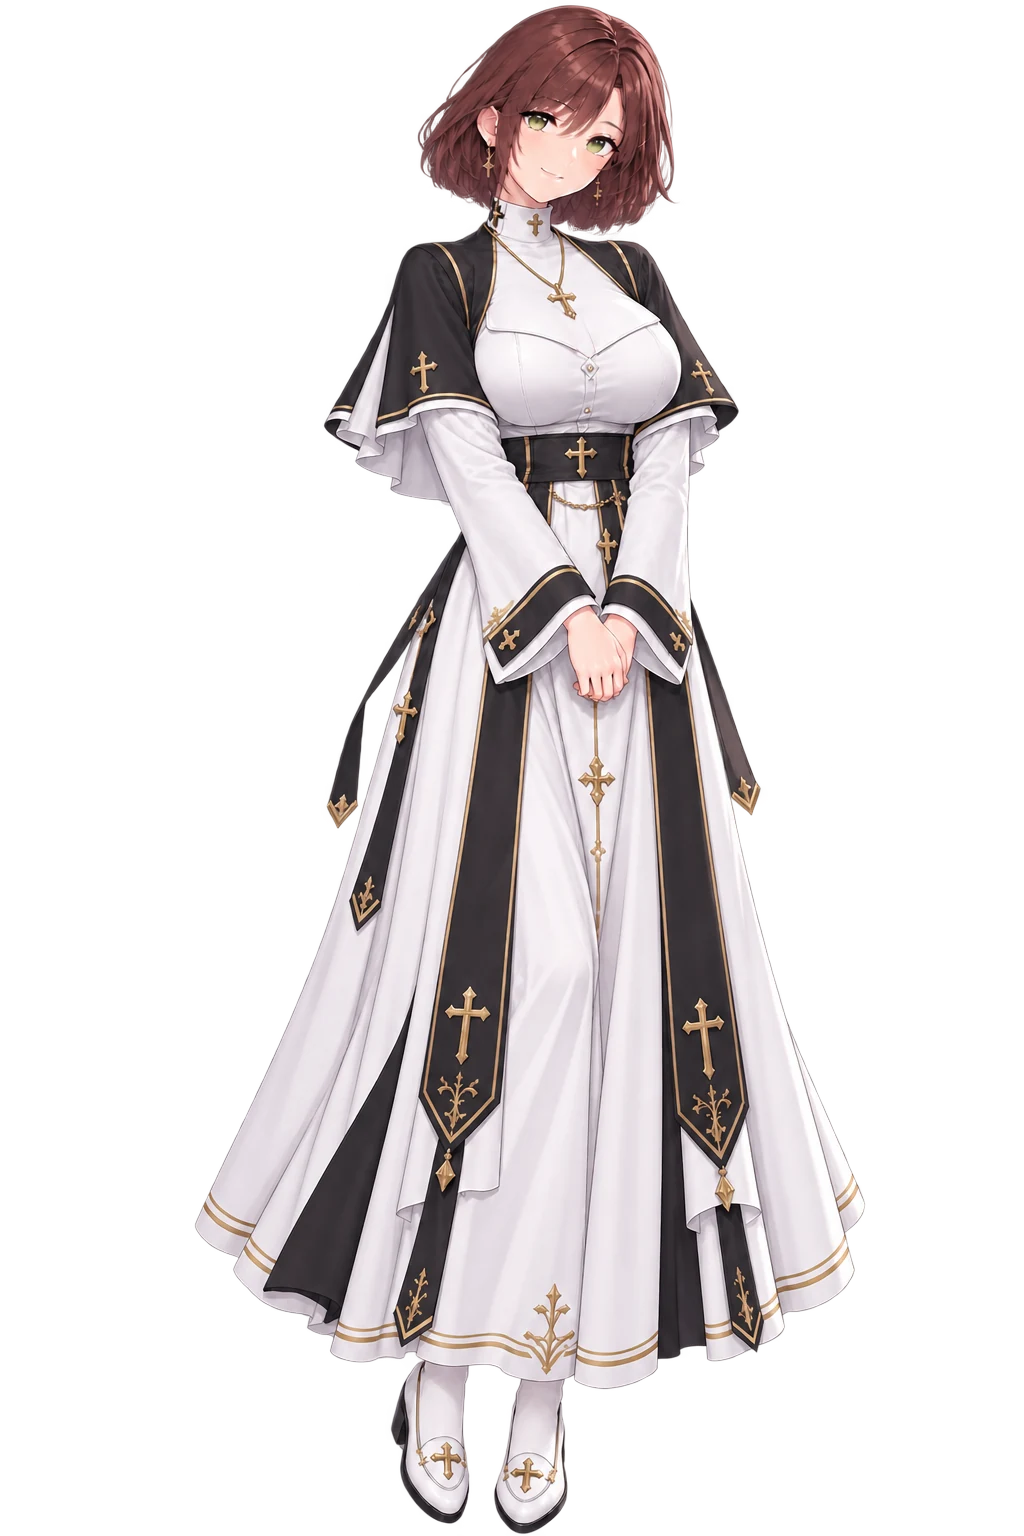
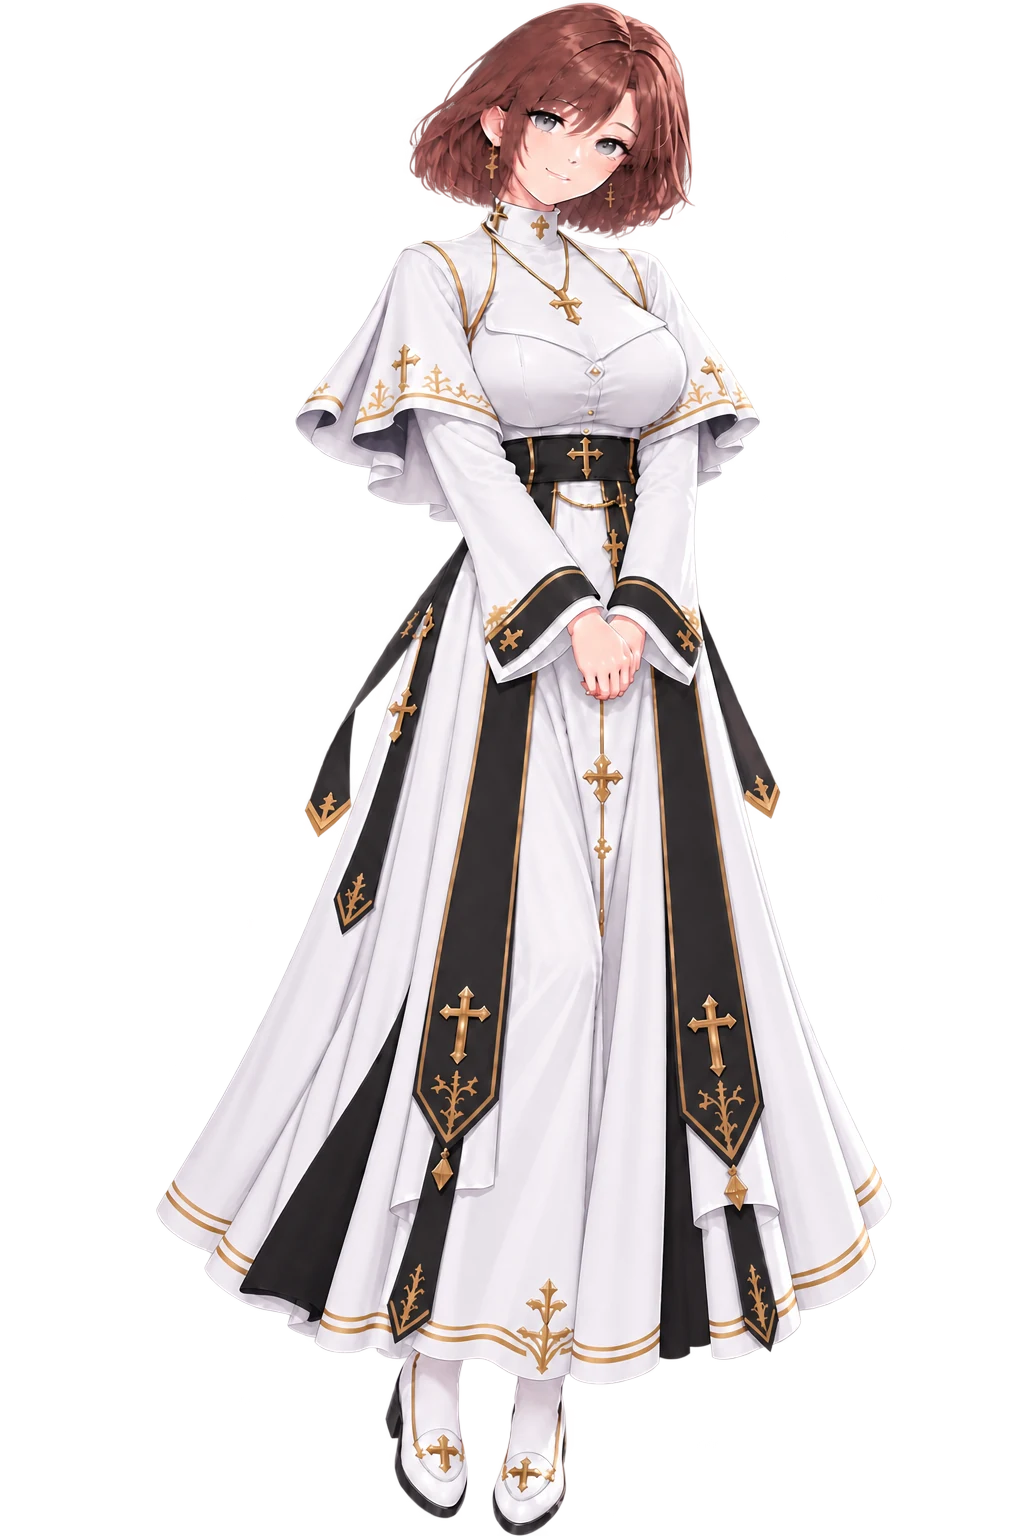
feat: 諾薇兒新立繪；鐵軌／石橋專用貼圖；遠處火車改為不畫 — ver -284
諾薇兒 Priest 換新版插畫，top/bot/fx 全部重量（1/1535、fx 0.564，橫向佔幅
0.656→0.719）。fx 的量法：眼框內找低飽和像素取重心（虹膜灰藍，皮膚與頭髮都是
高飽和）。⚠ 一定要先拿舊圖校準 —— 同一支程式量舊圖得 0.5565 而表上是 0.559，
差 2.6px，新圖量到 0.5619 要加同樣偏移修正為 0.564。⚠ 不能用「找暗像素當睫毛」：
實測近黑像素會一路連到頭髮，新舊兩張都量出整個框寬，沒有鑑別力。eye 這次沒量準
（CAST_EYE_MIX=0 不參與運算，但要調回鎖眼寬時第一件事就是重量它）。

Ray 畫的 flight_rail / flight_bridge 進 GEO_LIST（類別 13/14，低 4 bit 上限 15，
只剩一格）。⚠ 鐵軌貼圖是有方向的，不能照世界軸平鋪 —— 照世界軸只有南北向那幾段
會對。改成轉到軌道座標系取樣：沿軌方向來自新烘的 RAILDIR（ROAD_DS 粗格、72KB，
逐像素要 2.6MB 不值得），橫越方向直接由 RAILW 這個羽化距離場反推。烘方向時要寫進
3×3 鄰格，否則羽化溢出粗格的邊緣像素查不到方向會退回世界軸、接縫出現亂紋（實測
覆蓋率 100%）。沿軌刻意拉長 2 倍：照正方 texel 算枕木只有 3 螢幕像素，在 0.6× 的
降取樣緩衝裡會閃。底色改推到貼圖自己的均值，否則等於把畫好的顏色再洗一次。

遠處火車不再硬撐最小尺寸。-279 的直線排讓遠處的車轉彎時整根棍子在轉，Ray 指出
不如就別出現。改成 spanPx 低於門檻整列不畫，淡出綁投影長度而不是距離（同樣距離
下車頭朝鏡頭時投影長只有側掠的幾分之一）。實測尾段 150→…→22→0，無跳變。

Changed region(s): [[0.1562, 0.0, 0.875, 1.0]]

diff --git a/config.js b/config.js
@@ -8,7 +8,7 @@
 
 /* 版本號：顯示於診斷 HUD（首頁連點團徽 5 下開啟），每次部署遞增尾碼——
  *  用來確認手機（尤其 iOS 主畫面 App 的頑固快取）實際跑到的是哪一版。 */
-export const VERSION = 'ver 2026.08.21-283';
+export const VERSION = 'ver 2026.08.21-284';
 
 export const GAME_CONFIG = {
 

diff --git a/flight/HANDOFF.md b/flight/HANDOFF.md
@@ -2,8 +2,8 @@
 
 > 本檔涵蓋 `flight/` 這個模組。戰鬥那側的交接在專案根目錄的 `HANDOFF.md`。
 > 實況以 `git log` 為準；本檔是人類可讀的總覽與**踩過的坑**。
-> 涵蓋範圍：`ver -131` ~ `ver -283`。分五段交接，由舊到新：
-> 第一～四節（-131~-168）／第五節起（-169~-200）／`-202`~`-206`／`-207`~`-224`／`-226`~`-252`／`-277`~`-283`。
+> 涵蓋範圍：`ver -131` ~ `ver -284`。分五段交接，由舊到新：
+> 第一～四節（-131~-168）／第五節起（-169~-200）／`-202`~`-206`／`-207`~`-224`／`-226`~`-252`／`-277`~`-284`。
 > **從最後一段往回讀最有效率** —— 越新的段落越接近現況。
 
 ---
@@ -1555,3 +1555,68 @@ U-turn 掉頭的行為 Ray 認可，保留。這一版只補一件事：**靠城
 實測 966→0、732→0.20、498→0.65、264→0.98、30→1.00，最大單幀跳動 0.03。
 
 驗收：`window.dbgSnd()`（火車與海鷗的目標／實際音量、範圍、是否在播）。
+
+---
+
+# 交接 · `ver -284`（諾薇兒新立繪；鐵軌／石橋貼圖；遠處火車改為不畫）
+
+## A. 諾薇兒 Priest 換新版插畫
+
+**每次換圖都要重量，不能沿用。** 新舊對照：
+
+| | 舊 | 新 |
+|---|---|---|
+| top / bot | 5 / 1534 | **1 / 1535** |
+| fx | 0.559 | **0.564** |
+| 橫向佔幅 | 0.656 | **0.719** |
+
+**fx 的量法（這次建立的做法，之後照這個走）**：在眼框內找**低飽和**像素取重心 ——
+虹膜是灰藍，皮膚粉紅、頭髮褐色都是高飽和，所以飽和度是乾淨的判別特徵。
+
+- ⚠⚠ **一定要先拿舊圖校準**。同一支程式量舊圖得 0.5565，而表上記載 0.559 ——
+  差 2.6px(0.25%)，所以新圖量到的 0.5619 要加同樣的偏移修正為 0.564。
+- ⚠ **不能用「找暗像素當睫毛」**：實測眼框內的近黑像素會一路連到頭髮，新舊兩張
+  都量出「寬 70」＝整個框寬，完全沒有鑑別力。§F 警告的就是這件事。
+- `eye` 這次**沒有量準**（目視 40~47，取頭寬比例換算的 40）。`CAST_EYE_MIX` 是 0，
+  它不參與運算 —— 但哪天要調回鎖眼寬，第一件事就是重量它。
+
+side/back 也轉了 webp 備用，**沒有量過**。原始 PNG 移到 `resources/_originals/`
+（gitignore 的，所以只在本機）。
+
+## B. 鐵軌與石橋貼圖（Ray 畫的）
+
+`flight_rail` / `flight_bridge` 進 `GEO_LIST`，類別 13／14。
+⚠ **BIOME 的類別存在低 4 bit，上限 15，現在用到 14 —— 只剩一格。** 再加要先把
+BIOME 改成兩個 byte（多 2.6MB）。
+
+**⚠⚠ 鐵軌貼圖是「有方向」的，不能照世界軸平鋪。** 地貌貼圖一律照世界座標軸
+平鋪，而這張的鐵軌是直的、枕木是橫的 —— 照世界軸貼的話只有南北向那幾段會對。
+
+解法是**轉到軌道座標系再取樣**：
+
+- **沿軌 u**：世界座標投影到軌道方向。方向來自新烘的 `RAILDIR`（ROAD_DS 粗格、
+  一個 byte 存 0~π 的角度，**72KB**；逐地圖像素要 2.6MB，不值得）。
+  ⚠ 烘的時候要**寫進 3×3 鄰格**：羽化半徑會溢出所屬粗格，邊緣像素查不到方向就
+  退回世界軸，接縫上會出現一圈亂紋。實測覆蓋率 100%（4659 個鐵軌像素全查得到）。
+- **橫越 v**：直接由 `RAILW` 反推 —— 它是羽化距離場，`(1−w/255)` 就是離中心線多遠。
+  ⚠ 距離場**沒有正負號**，所以貼圖是以中線鏡射的。Ray 這張兩條軌對稱於中線，
+  鏡射後完全還原；換成不對稱的貼圖就會露餡，屆時要另烘一個帶號的橫越座標。
+- ⚠ 沿軌方向刻意**拉長 2 倍**（`RAIL_ALONG` 0.60 vs 橫越的 0.30）：照正方 texel 算
+  枕木間距只有 3 個螢幕像素，而地形是 0.6× 的降取樣緩衝畫的 —— 1.9 個緩衝像素
+  一根枕木正好踩在取樣極限上會閃。非正方 texel 是刻意的。
+
+**底色要推到貼圖自己的均值**（鐵軌 139,121,101／橋 138,128,114）。細節層是相對
+均值的倍率，底色對上均值貼出來才是原本的顏色 —— 先前憑感覺填的淺灰會把人家
+畫好的顏色再洗一次。
+
+## C. 遠處的火車改成不畫（不再硬撐最小尺寸）
+
+ver -279 為了不閃，在螢幕空間把太小的車等比撐到 `TRAIN_MIN_PX` 再**直線排**
+（放棄彎道）。結果遠處的車轉彎時是**整根棍子在轉** —— Ray 回報「不如在那個距離
+就不要出現」。對：一個轉得不對的東西比沒有更糟。
+
+改成 `spanPx < TRAIN_MIN_PX` 就整列不畫，並把**淡出綁在投影長度**上（1.7 倍門檻
+→ 門檻之間淡完），剛好接上不畫的門檻，中間沒有跳變。
+⚠ 綁長度而不是綁距離：同樣的距離，車頭朝著鏡頭時投影長只有側掠時的幾分之一，
+「看不看得清楚」本來就是長度的事。
+實測尾段 150→128→122→109→90→56→22→0，約 1728 世界單位處消失。
